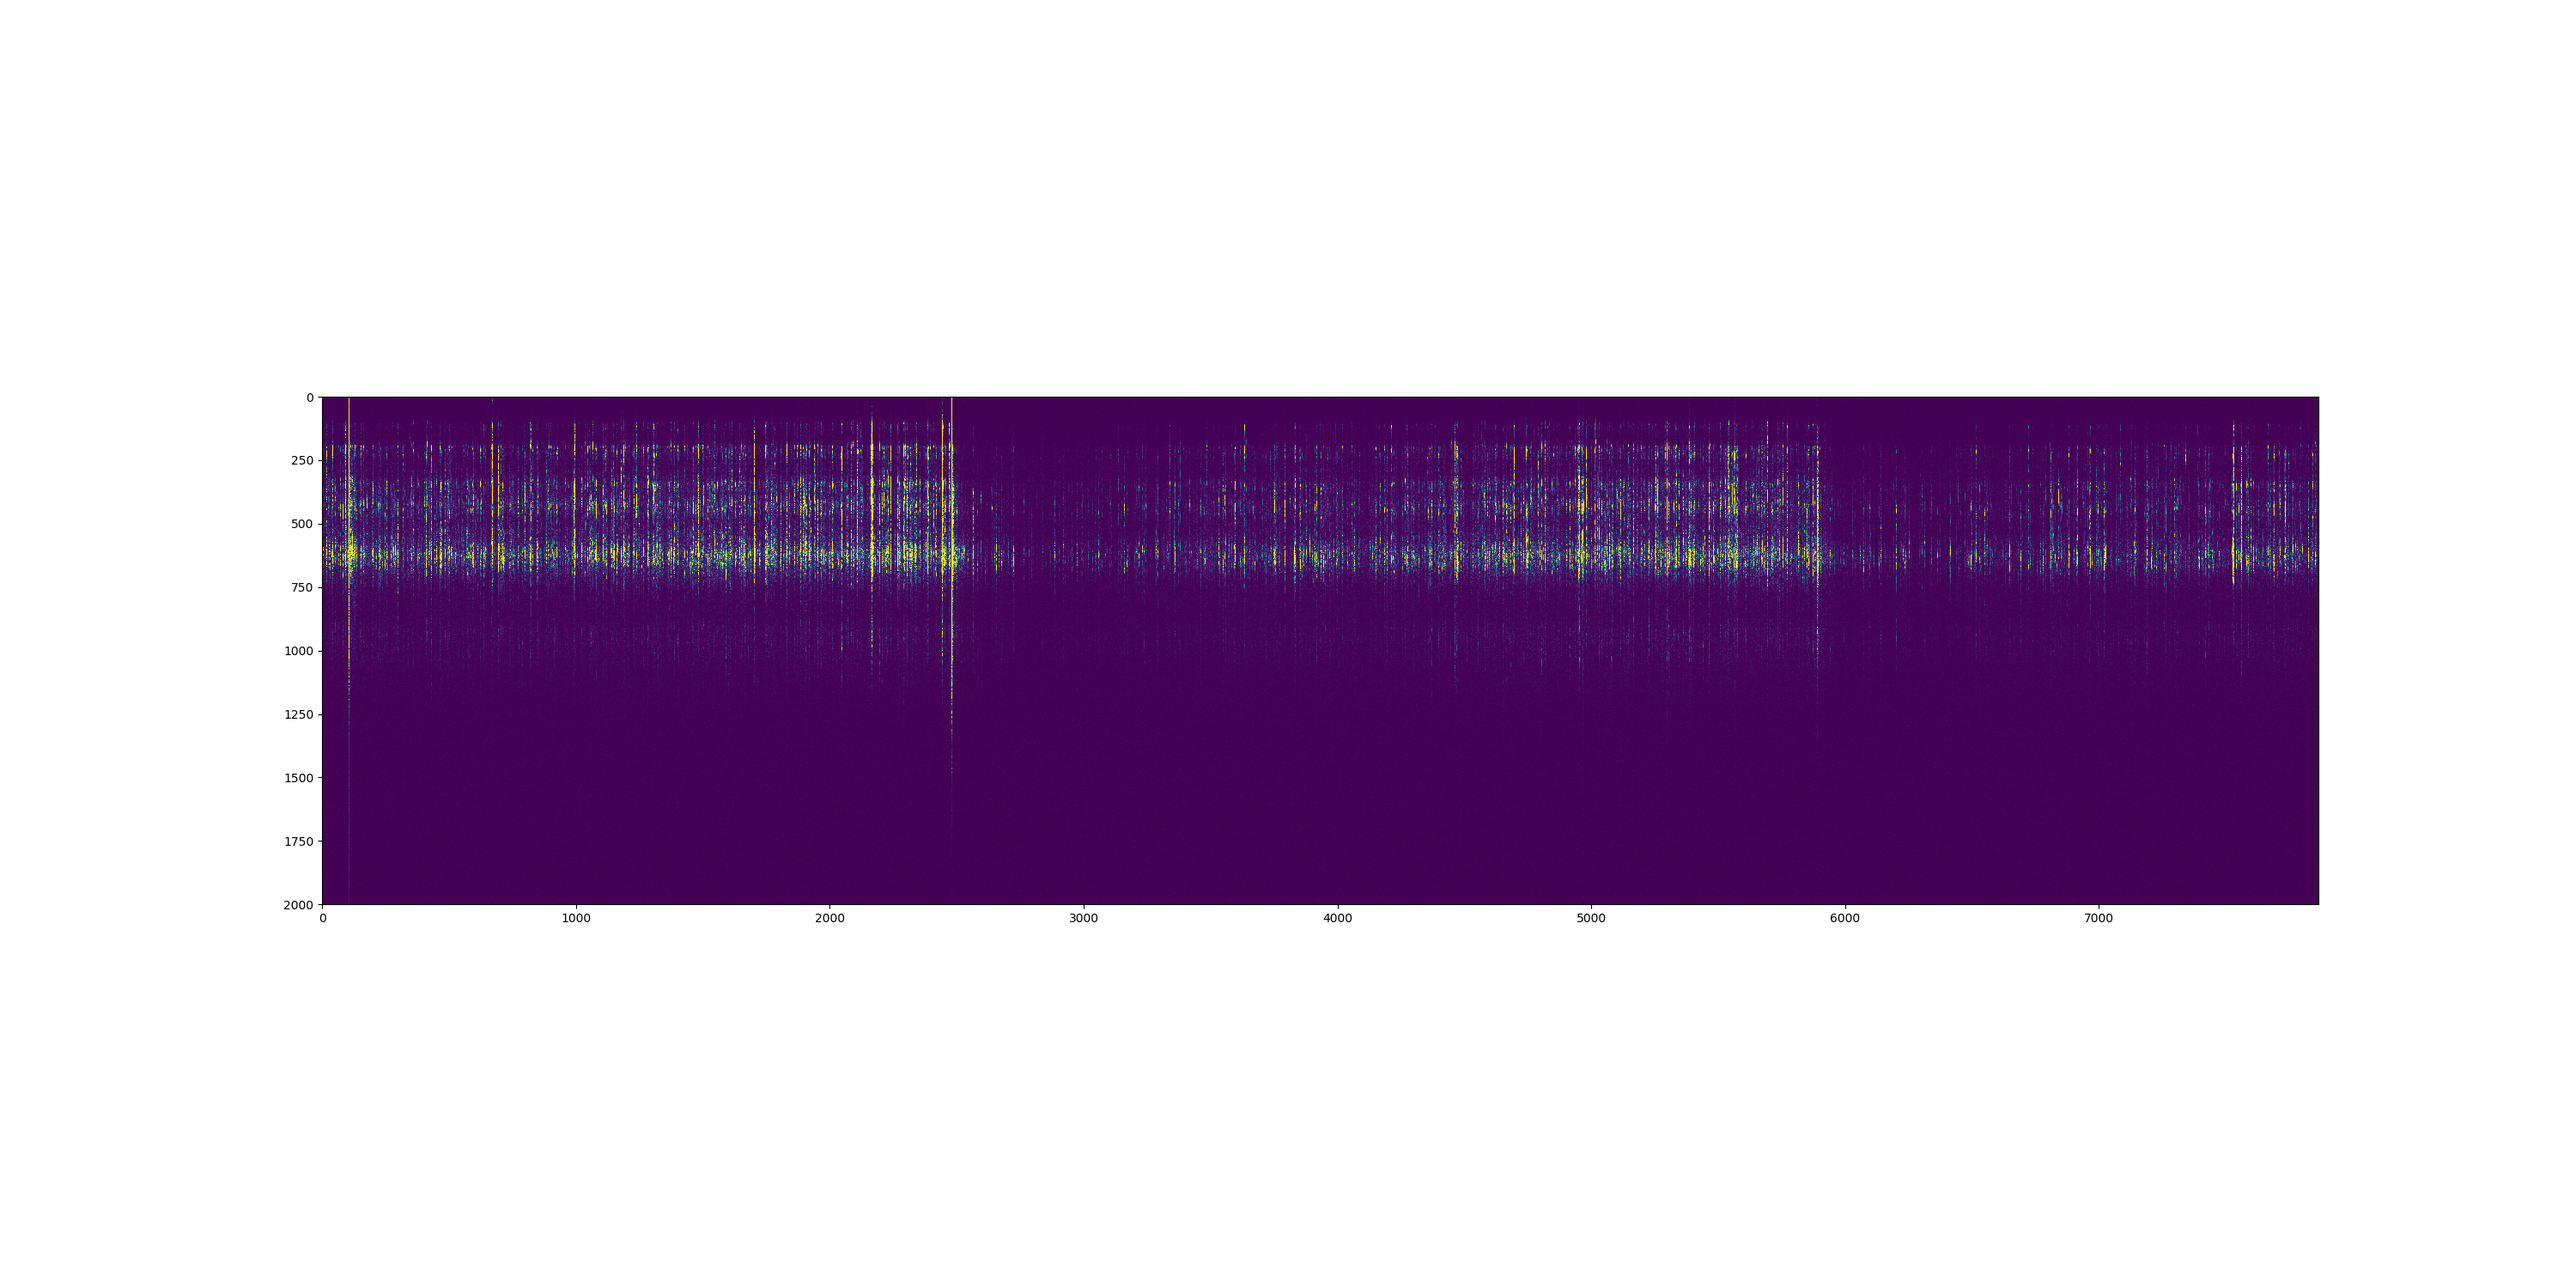
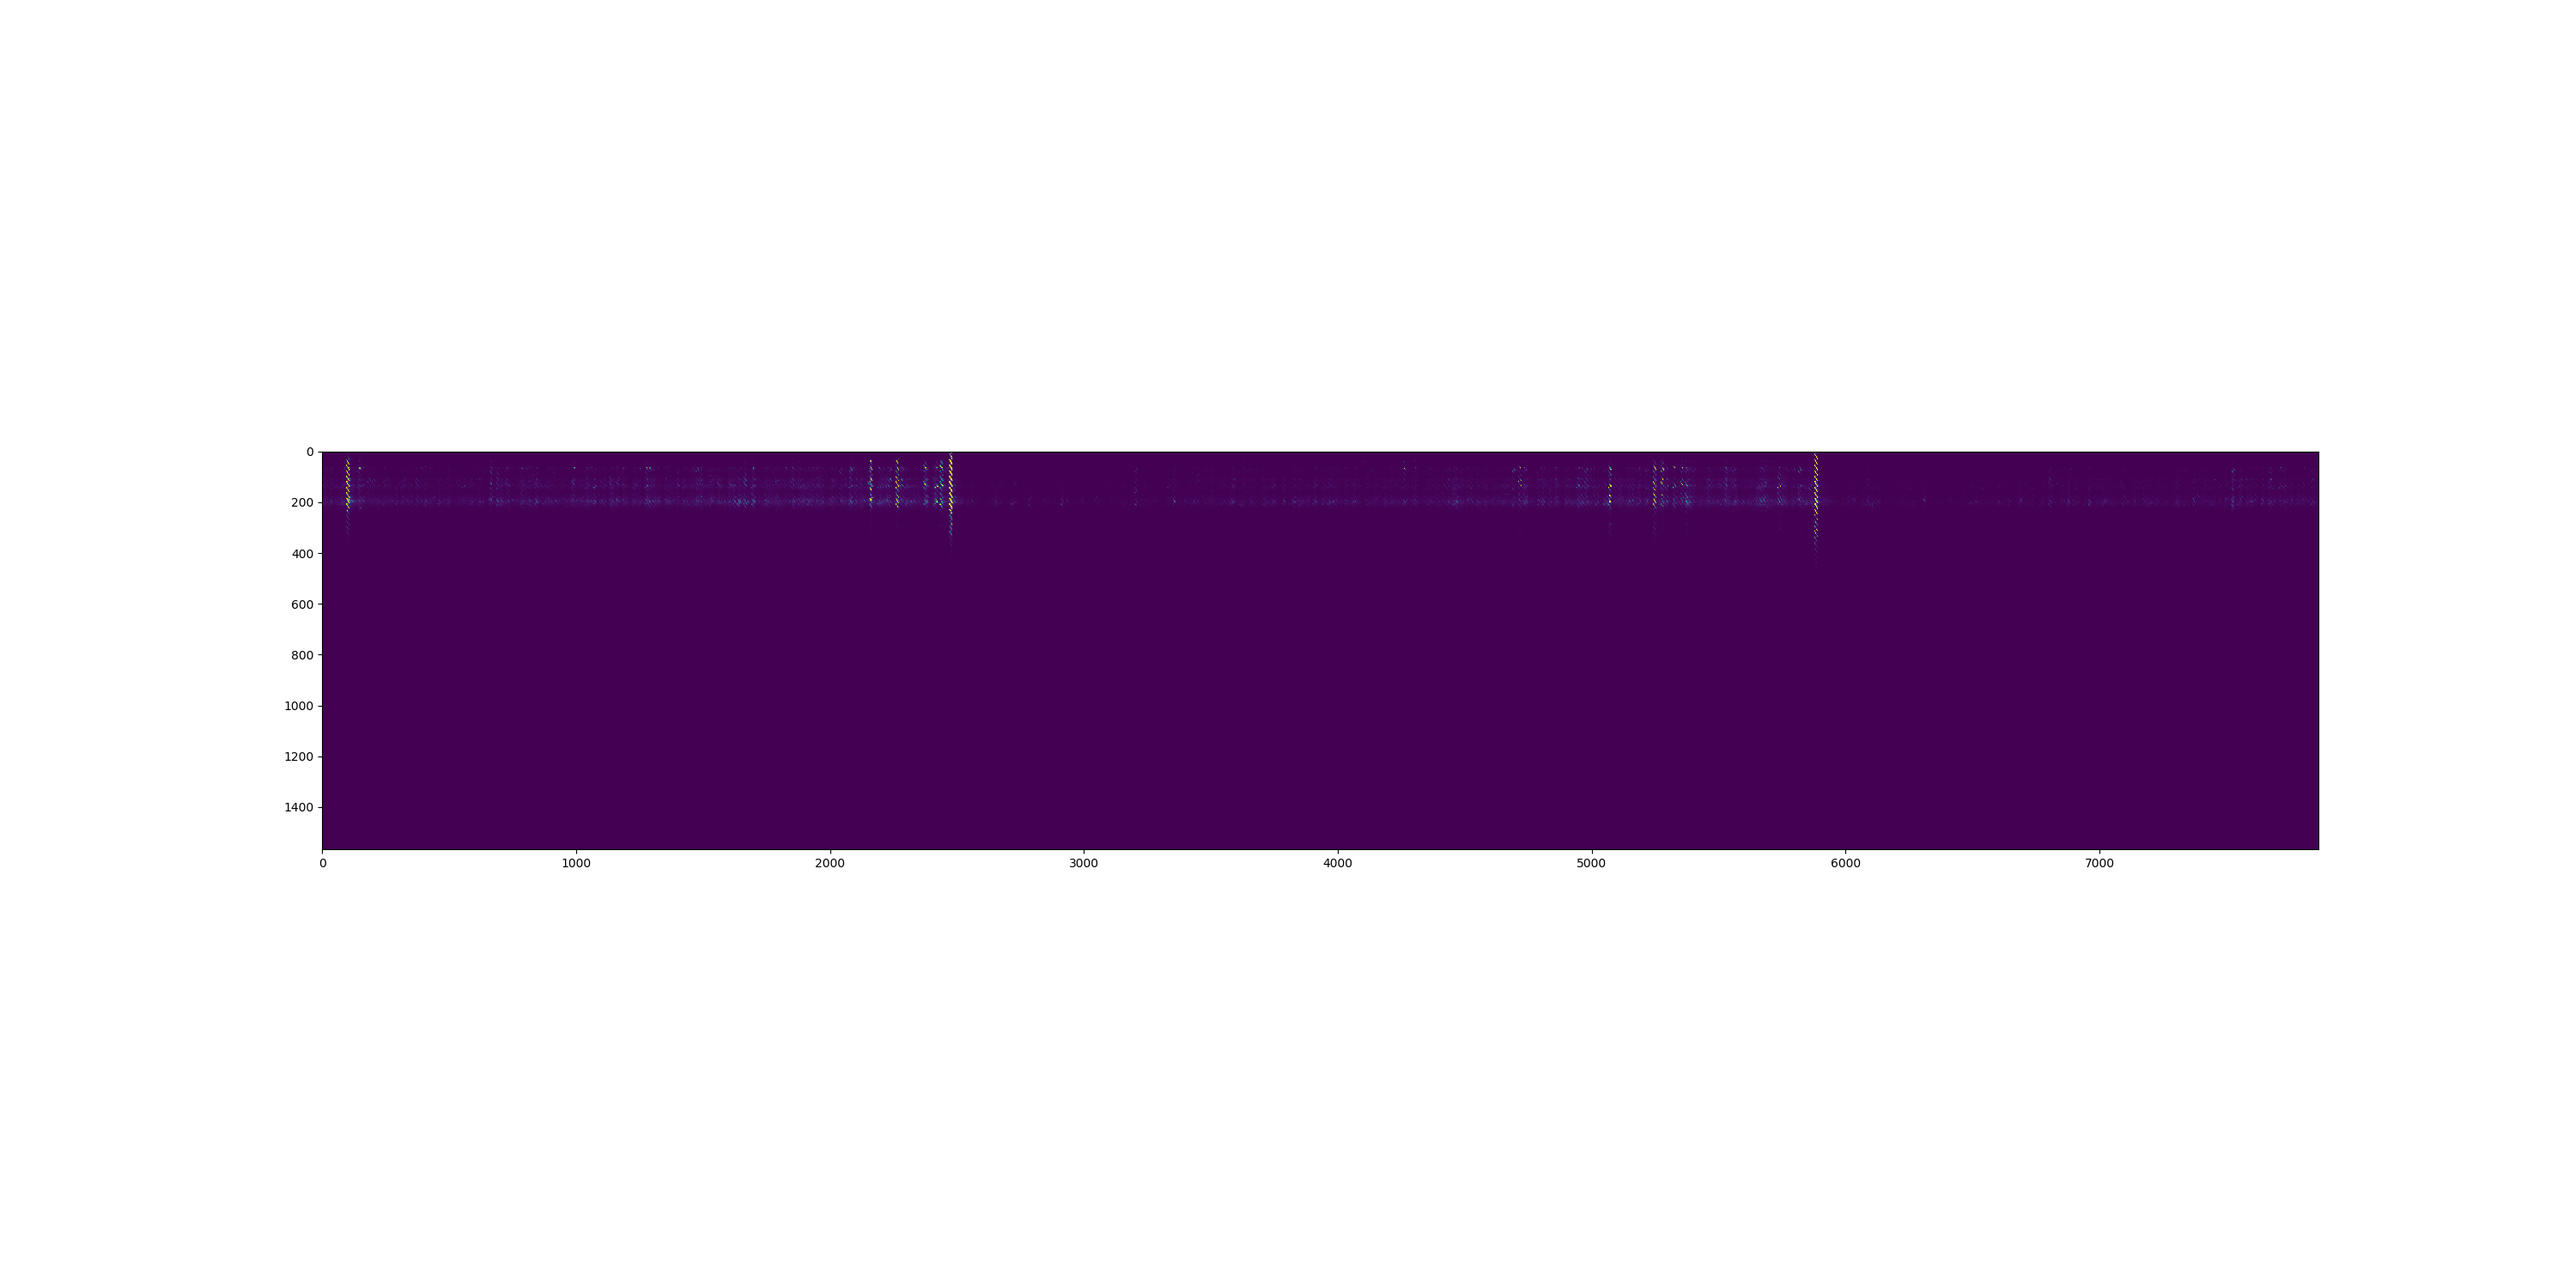
DS: add spectrogramm with downsampling feature

Changed region(s): [[0.124, 0.3067, 0.899, 0.46], [0.124, 0.644, 0.899, 0.7053]]

diff --git a/src/data_processing/dp_utils.py b/src/data_processing/dp_utils.py
@@ -10,6 +10,7 @@ import json
 import os
 from tqdm import tqdm
 from scipy.signal import savgol_filter
+import scipy.signal as signal
 import warnings
 import feets
 
@@ -42,6 +43,7 @@ class WindowDecorator:
 
         df = args[0]
         window_size = kwargs['window_size']
+        window_stride = kwargs['window_stride']
         if "desc_line" in kwargs:
             desc_line = kwargs['desc_line']
         else:
@@ -54,12 +56,13 @@ class WindowDecorator:
             return pd.DataFrame(df.values, columns={desc_line})
         else:
             temp = []
-            for i in tqdm(range(0, df.shape[0], window_size),
+            for i in tqdm(range(0, df.shape[0] - window_size, window_stride),
                           desc=desc_line, file=sys.stdout):
                 batch = df.iloc[i: i + window_size].values
                 temp.append(self.unwrapped(batch, *args, **kwargs))
             tqdm.write("\t window decorator: ")
             tqdm.write("\t - window size: {}".format(window_size))
+            tqdm.write("\t - window stride: {}".format(window_stride))
             if hasattr(temp[0], 'shape') and temp[0].shape is not ():
                 out_features = temp[0].shape[0]
                 column_names = [desc_line + '_' + str(i) for i in range(out_features)]
@@ -98,7 +101,7 @@ def get_function_descriptor(func, extra_params):
     return desc_line
 
 
-def process_df(df, routines, default_window_size, save_path=None, df_name=None):
+def process_df(df, routines, default_window_size, default_window_stride, save_path=None, df_name=None):
     """
     Data processing is done in three main steps:
     1) Calculate all features listed in configuration file (dp_config.json)
@@ -132,6 +135,7 @@ def process_df(df, routines, default_window_size, save_path=None, df_name=None):
         func = getattr(this_module_name, routine["name"])
         func_params = routine['params']
         window_size = default_window_size if 'window_size' not in routine else routine['window_size']
+        window_stride = default_window_stride if 'window_stride' not in routine else routine['window_stride']
         try:
             data = df[routine['column_name']] if routine['column_name'] in df.columns \
                 else temp_data[routine['column_name']].squeeze()
@@ -146,6 +150,7 @@ def process_df(df, routines, default_window_size, save_path=None, df_name=None):
 
         data_processed = func(data,
                               window_size=window_size,
+                              window_stride=window_stride,
                               desc_line=desc_line,
                               # save_path=os.path.join(df_path, desc_line + ".h5"),
                               **func_params)
@@ -154,7 +159,7 @@ def process_df(df, routines, default_window_size, save_path=None, df_name=None):
 
     # append column with labels
     try:
-        temp_data['ttf'] = w_last_elem(df['ttf'], window_size=default_window_size, desc_line="ttf")
+        temp_data['ttf'] = w_last_elem(df['ttf'], window_size=default_window_size, window_stride=default_window_stride, desc_line="ttf")
     except KeyError as e:
         raise KeyError(f"Labels can't be calculated, key: {e} is missing")
 
@@ -242,8 +247,30 @@ def w_periodogram(df, *args, fs=4e6, **kwargs):
     -------
     A sum of spectral components of the dataframe
     """
-    return scipy.signal.periodogram(df, fs=fs)[1][:2000]
+    return scipy.signal.periodogram(df, fs=fs, scaling='spectrum')[1][:8000]
 
+
+@DumpDecorator
+@WindowDecorator
+def w_spectrogramm_downsampled(df, *args, fs=4e6, **kwargs):
+    """
+    custom spectrogramm with downsampling afterwards in freq domain
+    Parameters
+    ----------
+    df : pandas DataFrame
+    args : None
+    fs : sampling frequency
+    kwargs :
+
+    Returns
+    -------
+
+    """
+    f, t, Sxx = signal.spectrogram(df, fs, nperseg=kwargs['nperseg'], noverlap=kwargs['noverlap'], mode=kwargs['mode'])
+    smoothen = signal.convolve2d(Sxx, np.array([[0.25, 0.25, 0.25, 0.25]]).T, mode='full')[::4]
+    smoothen = signal.convolve2d(smoothen, np.array([[0.25, 0.25, 0.25, 0.25]]).T, mode='full')[::4]
+    smoothen = signal.convolve2d(smoothen, np.array([[0.25, 0.25, 0.25, 0.25]]).T, mode='full')[::4]
+    return smoothen.T.flatten()
 
 @DumpDecorator
 @WindowDecorator

diff --git a/src/validation/train_single_model.py b/src/validation/train_single_model.py
@@ -83,6 +83,9 @@ def main(**kwargs):
         plt.figure(figsize=(30,15))
         plt.imshow(X_valid.T, vmax=0.001)
         plt.savefig(f'valid_data_{fold_n}.png')
+        plt.figure(figsize=(30, 15))
+        plt.plot(y_valid.values)
+        plt.savefig(f'valid_data_y_{fold_n}.png')
 
 
         model = model_cls(**model_params)
@@ -92,11 +95,10 @@ def main(**kwargs):
 
         # temp custom reshape data for
         num_samples_to_show = 20000
+        num_features = 4000
 
-        X_train_reshaped = pd.DataFrame(np.stack([X_train[i-15:i] for i in range(15, X_train.shape[0])]).reshape(-1, 30000)[:num_samples_to_show])
 
-
-        predict = model.predict(X_train_reshaped)
+        predict = model.predict(X_train)
 
         plt.figure()
         plt.plot(y_train.values)
@@ -107,14 +109,11 @@ def main(**kwargs):
         plt.savefig(f'train_{fold_n}.png')
 
         for metric_name, metric in metrics.items():
-            score = metric(predict, y_train[15: num_samples_to_show + 15])
+            score = metric(predict, y_train)
             scores[metric_name].append(score)
             print(f"train score: {score.mean():.4f}")
 
-        # temp custom reshape data for
-        X_valid_reshaped = pd.DataFrame(np.stack([X_valid[i - 15:i] for i in range(15, X_valid.shape[0])]).reshape(-1, 30000))
-
-        predict = model.predict(X_valid_reshaped)
+        predict = model.predict(X_valid)
 
         plt.figure()
         plt.plot(y_valid.values)
@@ -125,7 +124,7 @@ def main(**kwargs):
         plt.savefig(f'valid_{fold_n}.png')
 
         for metric_name, metric in metrics.items():
-            score = metric(predict, y_valid[15:])
+            score = metric(predict, y_valid)
             scores[metric_name].append(score)
             print(f"validation score: {score.mean():.4f}")
 

diff --git a/src/models/mlp_net.py b/src/models/mlp_net.py
@@ -16,7 +16,7 @@ class MLP(Module, ModelBase):
         self.linears_size = kwargs['hidden_layers']
         self.device = kwargs['device']
 
-        self.dropout = Dropout(p=0.2)
+        self.dropout = Dropout(p=0.4)
 
         self.bn = BatchNorm1d(self.in_features)
 
@@ -51,12 +51,11 @@ class MLP(Module, ModelBase):
 
         n_train_steps_per_epoch = train_data.shape[0] // self.minibatch_size
 
-        n_rows_per_sample = self.in_features // train_data.shape[1]
         for e in range(self.num_epochs):
             print(f" epoch: {e} out of {self.num_epochs}")
             for i in range(n_train_steps_per_epoch):
-                batch_idx = np.random.randint(low=n_rows_per_sample, high=train_data.shape[0], size=self.minibatch_size)
-                x_batch = torch.stack([train_data[idx - n_rows_per_sample: idx] for idx in batch_idx]).view(self.minibatch_size, self.in_features)
+                batch_idx = np.random.randint(low=0, high=train_data.shape[0], size=self.minibatch_size)
+                x_batch = train_data[batch_idx]
                 y_batch = train_y[batch_idx]
                 predict = self(x_batch)
 

diff --git a/src/data_processing/dp_run.py b/src/data_processing/dp_run.py
@@ -12,6 +12,7 @@ def main(**kwargs):
     data_processed_path = kwargs['data_processed_dir'] + kwargs["data_processed_fname"]
 
     default_window_size = kwargs['window_size']
+    default_window_stride = kwargs['window_stride']
 
     # 1. Load data
     print('.......................Processing started.........................')
@@ -23,7 +24,8 @@ def main(**kwargs):
     print(' - Run dataframe processing')
     dfp = dp.process_df(df,
                         kwargs['routines'],
-                        default_window_size)
+                        default_window_size,
+                        default_window_stride)
     print(' - Dataframe was successfully processed')
 
     # 3. Save modified dataframe
